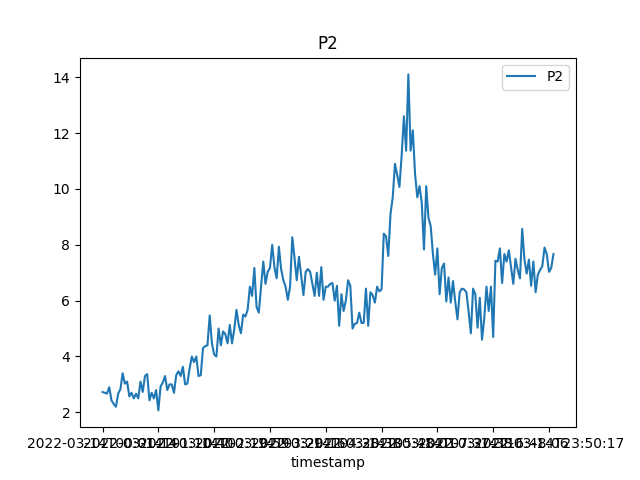
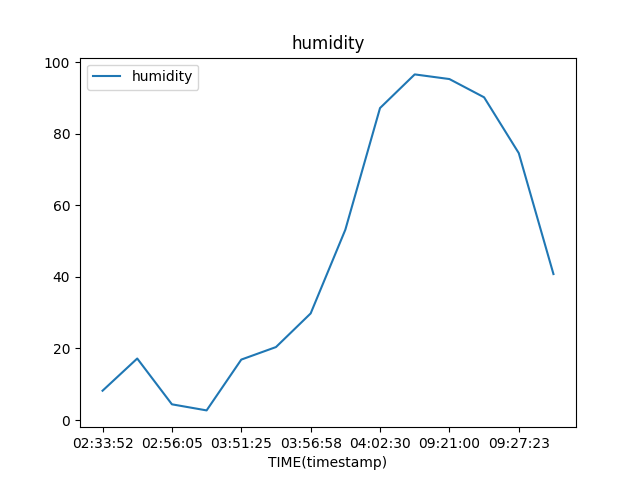
fixed depiction of time in graph

diff --git a/Python_Script/graph.py b/Python_Script/graph.py
@@ -9,28 +9,28 @@ def get_graph(timestamp, datatype):
     einheit = ""
 
     if datatype == "Feinstaub P1":
-        query = (f'SELECT P1, timestamp '
+        query = (f'SELECT P1, TIME(timestamp) '
                  'FROM Feinstaub '
                  'WHERE DATE(timestamp) = DATE(\'{}\')').format(timestamp)
         einheit = " µg/m^3"
         datatype = "P1"
 
     if datatype == "Feinstaub P2":
-        query = (f'SELECT P2, timestamp '
+        query = (f'SELECT P2, TIME(timestamp) '
                  'FROM Feinstaub '
                  'WHERE DATE(timestamp) = DATE(\'{}\')').format(timestamp)
         einheit = " µg/m^3"
         datatype = "P2"
 
     if datatype == "Temperatur":
-        query = ('SELECT temperature, timestamp '
+        query = ('SELECT temperature, TIME(timestamp) '
                  'FROM Temperatur_Luftdruck '
                  'WHERE DATE(timestamp) = DATE(\'{}\')').format(timestamp)
         einheit = " °C"
         datatype = "temperature"
 
     if datatype == "Luftfeuchtigkeit":
-        query = ('SELECT humidity, timestamp '
+        query = ('SELECT humidity, TIME(timestamp) '
                  'FROM Temperatur_Luftdruck '
                  'WHERE DATE(timestamp) = DATE(\'{}\') '
                  'AND humidity > 1 '
@@ -39,6 +39,6 @@ def get_graph(timestamp, datatype):
         datatype = "humidity"
 
     df = pd.read_sql(query, my_conn)
-    plot = df.plot.line(title=datatype, x='timestamp', y=datatype)
+    plot = df.plot.line(title=datatype, x='TIME(timestamp)', y=datatype)
     fig = plot.get_figure()
     fig.savefig("./graph.png")
